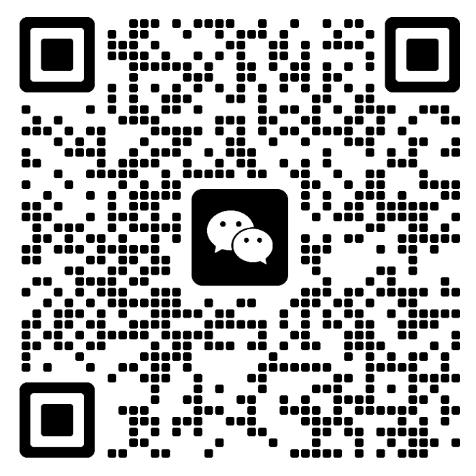
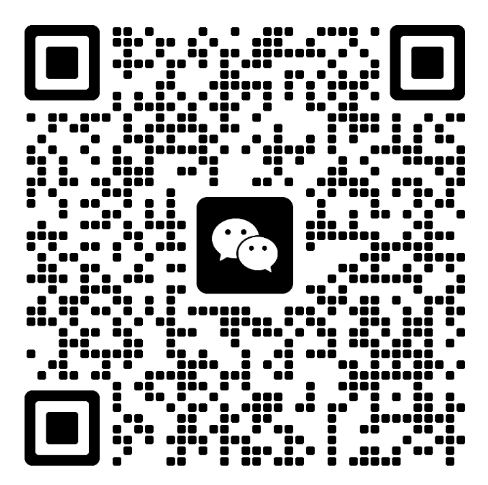
update bar code, update readme

diff --git a/air_llm/README.md b/air_llm/README.md
@@ -293,6 +293,20 @@ Some models are gated models, needs huggingface api token. You can provide hf_to
 model = AirLLMLlama2("meta-llama/Llama-2-7b-hf", #hf_token='HF_API_TOKEN')
 ```
 
+### 4. ValueError: Asking to pad but the tokenizer does not have a padding token.
+
+Some model's tokenizer doesn't have padding token, so you can set a padding token or simply turn the padding config off:
+
+ ```python
+input_tokens = model.tokenizer(input_text,
+    return_tensors="pt", 
+    return_attention_mask=False, 
+    truncation=True, 
+    max_length=MAX_LENGTH, 
+    padding=False  #<-----------   turn off padding 
+)
+```
+
 
 ## Contribution 
 
